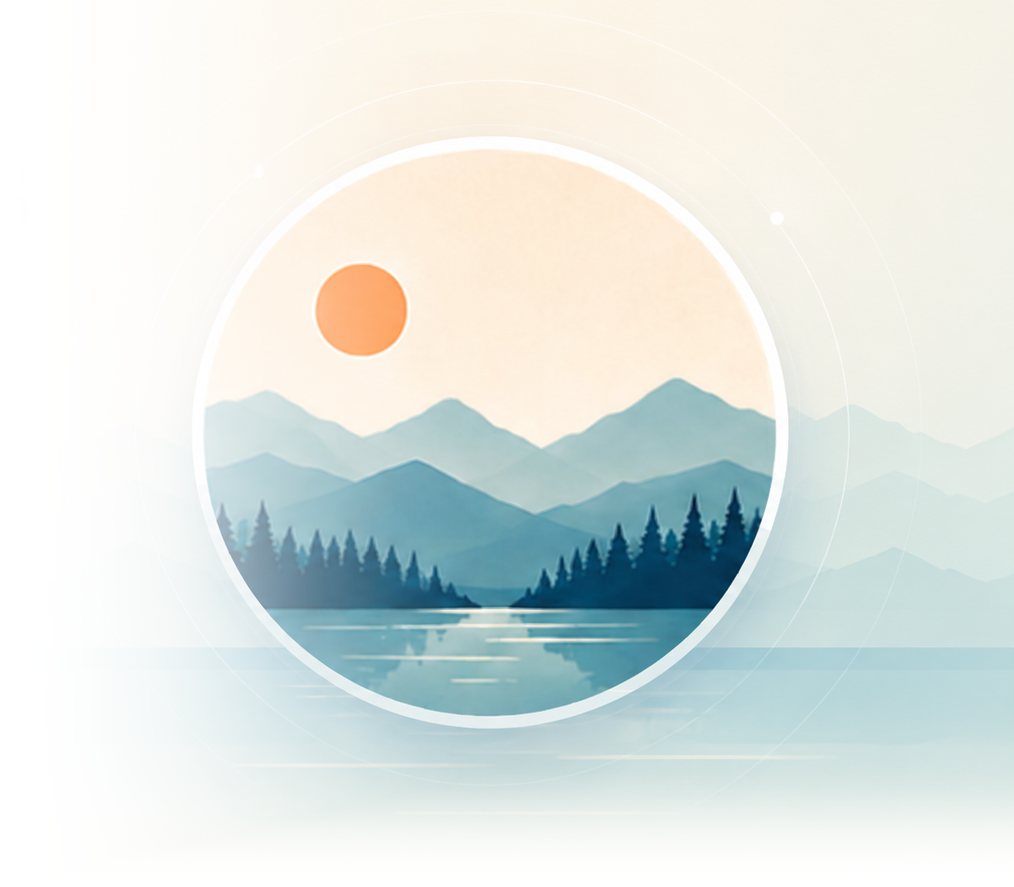
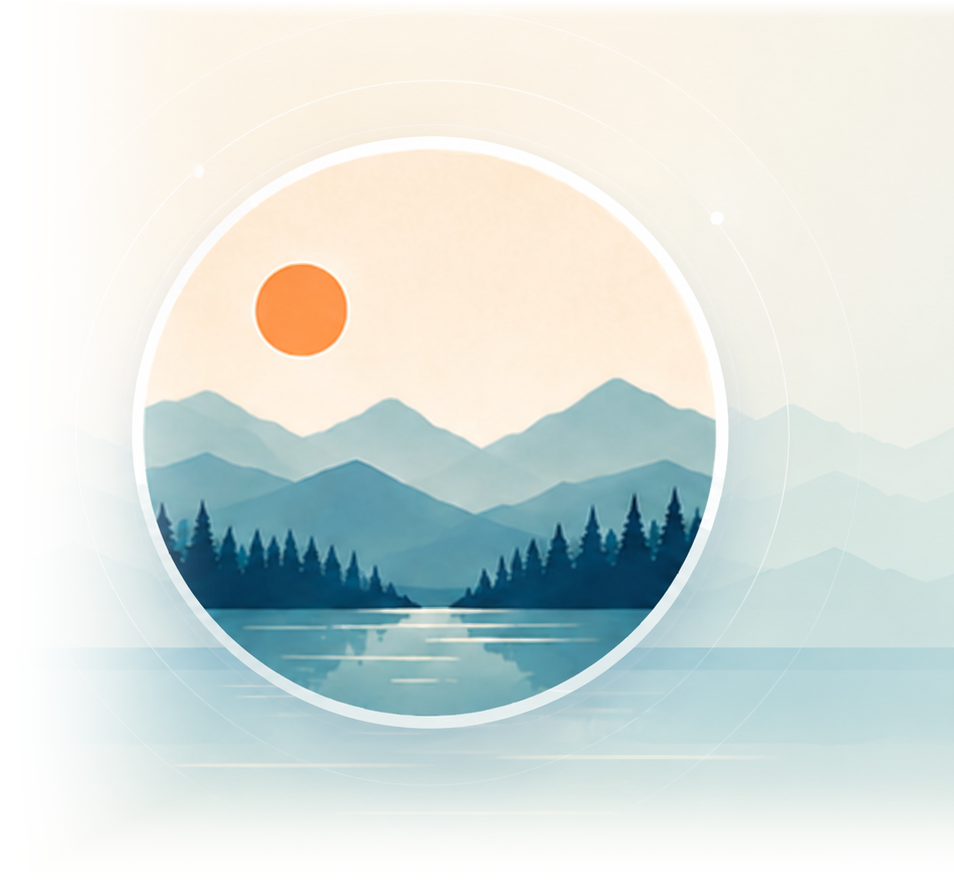
Fix hero art crop and remove mockup text

Changed region(s): [[0.0912, 0.1522, 0.7904, 0.8828], [0.456, 0.761, 0.4864, 0.7914]]

diff --git a/src/styles/global.css b/src/styles/global.css
@@ -80,18 +80,28 @@ p { margin: 0; }
 .hero-shell {
   position: relative;
   overflow: hidden;
-  min-height: clamp(600px, 72vh, 760px);
-  background-color: #f8f1e5;
-  background-image: var(--hero-bg);
-  background-repeat: no-repeat;
-  background-position: center center;
-  background-size: cover;
+  min-height: clamp(580px, 70vh, 740px);
+  background:
+    radial-gradient(circle at 72% 22%, rgba(255,255,255,.78), transparent 17rem),
+    radial-gradient(circle at 68% 42%, rgba(184,214,211,.38), transparent 30rem),
+    linear-gradient(100deg, #f8f1e5 0%, #fbf6ed 43%, #eaf5f3 100%);
   border-bottom: 1px solid rgba(230,225,216,.72);
+}
+.hero-visual {
+  position: absolute;
+  inset: 0;
+  z-index: 0;
+  pointer-events: none;
+  background-image: var(--hero-art);
+  background-repeat: no-repeat;
+  background-position: right 5vw center;
+  background-size: min(56vw, 880px) auto;
+  opacity: .98;
 }
 .hero {
   position: relative;
   z-index: 1;
-  min-height: clamp(600px, 72vh, 760px);
+  min-height: clamp(580px, 70vh, 740px);
   display: flex;
   align-items: center;
   padding-top: clamp(3.3rem, 5vw, 4.8rem);
@@ -178,14 +188,15 @@ p { margin: 0; }
 @keyframes floaty { 0%,100% { transform: translateY(0); opacity: .25; } 50% { transform: translateY(-18px); opacity: .65; } }
 
 @media (max-width: 980px) {
-  .hero-shell {
-    min-height: auto;
-    background-position: 68% top;
-    background-size: auto 520px;
+  .hero-shell { min-height: auto; }
+  .hero-visual {
+    background-position: center top;
+    background-size: min(100vw, 680px) auto;
+    opacity: .45;
   }
   .hero {
     min-height: auto;
-    padding-top: clamp(20rem, 54vw, 30rem);
+    padding-top: clamp(18rem, 54vw, 30rem);
   }
   .app-grid { grid-template-columns: repeat(2, minmax(0,1fr)); }
   .intro-grid { grid-template-columns: 1fr; }
@@ -196,11 +207,8 @@ p { margin: 0; }
   .site-nav { width: 100%; overflow-x: auto; padding-bottom: .25rem; }
   .brand-mark { width: 44px; height: 44px; }
   h1 { font-size: clamp(2.75rem, 15vw, 4rem); }
-  .hero-shell {
-    background-position: 72% top;
-    background-size: auto 390px;
-  }
-  .hero { padding-top: clamp(16rem, 66vw, 23rem); }
+  .hero { padding-top: clamp(15rem, 62vw, 22rem); }
+  .hero-visual { background-size: min(124vw, 560px) auto; opacity: .42; }
   .app-grid, .info-grid, .footer-columns, .future-band { grid-template-columns: 1fr; }
   .future-band { text-align: left; }
 }
